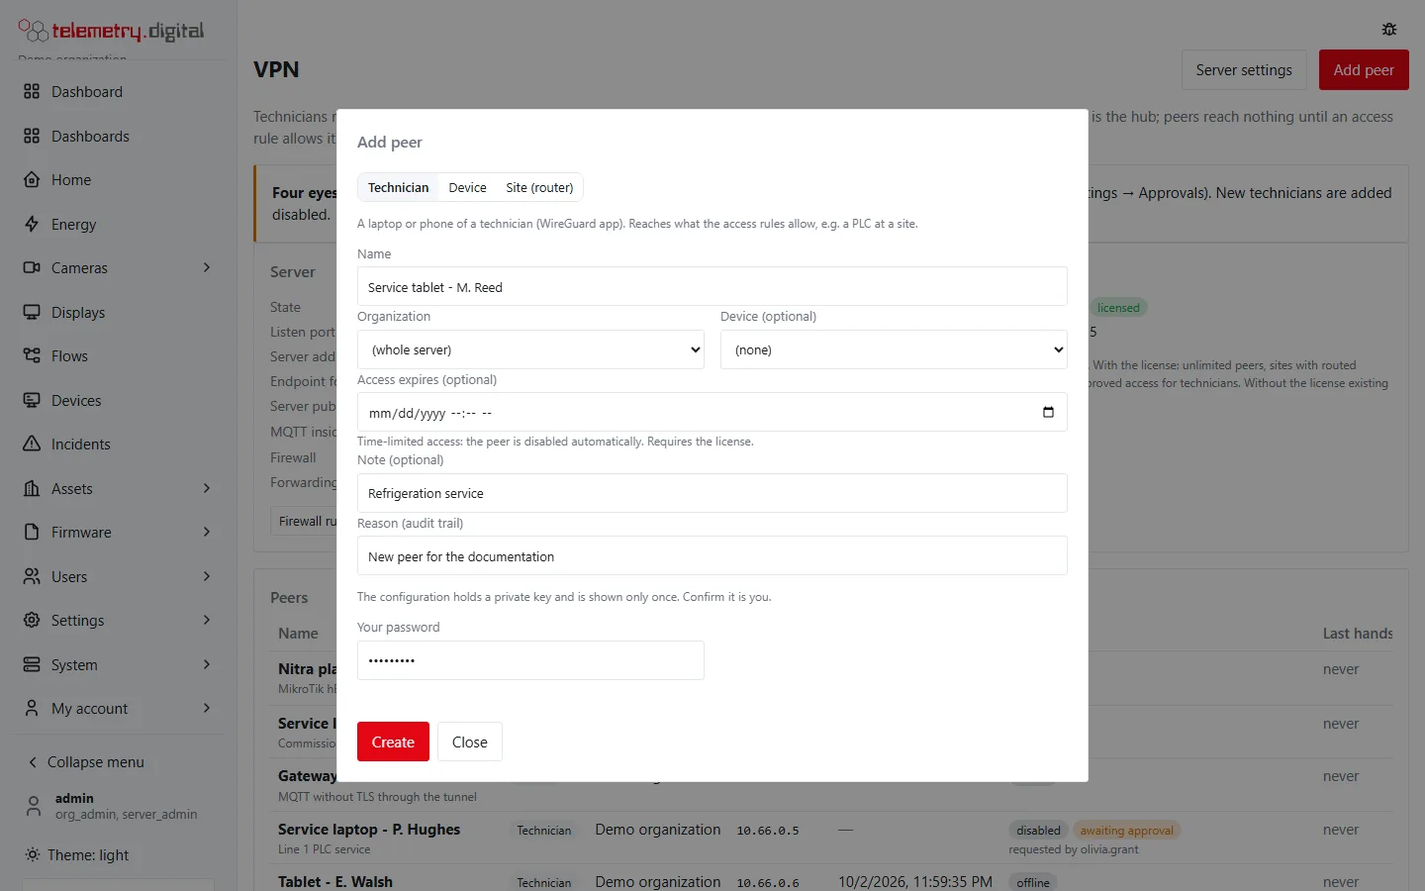
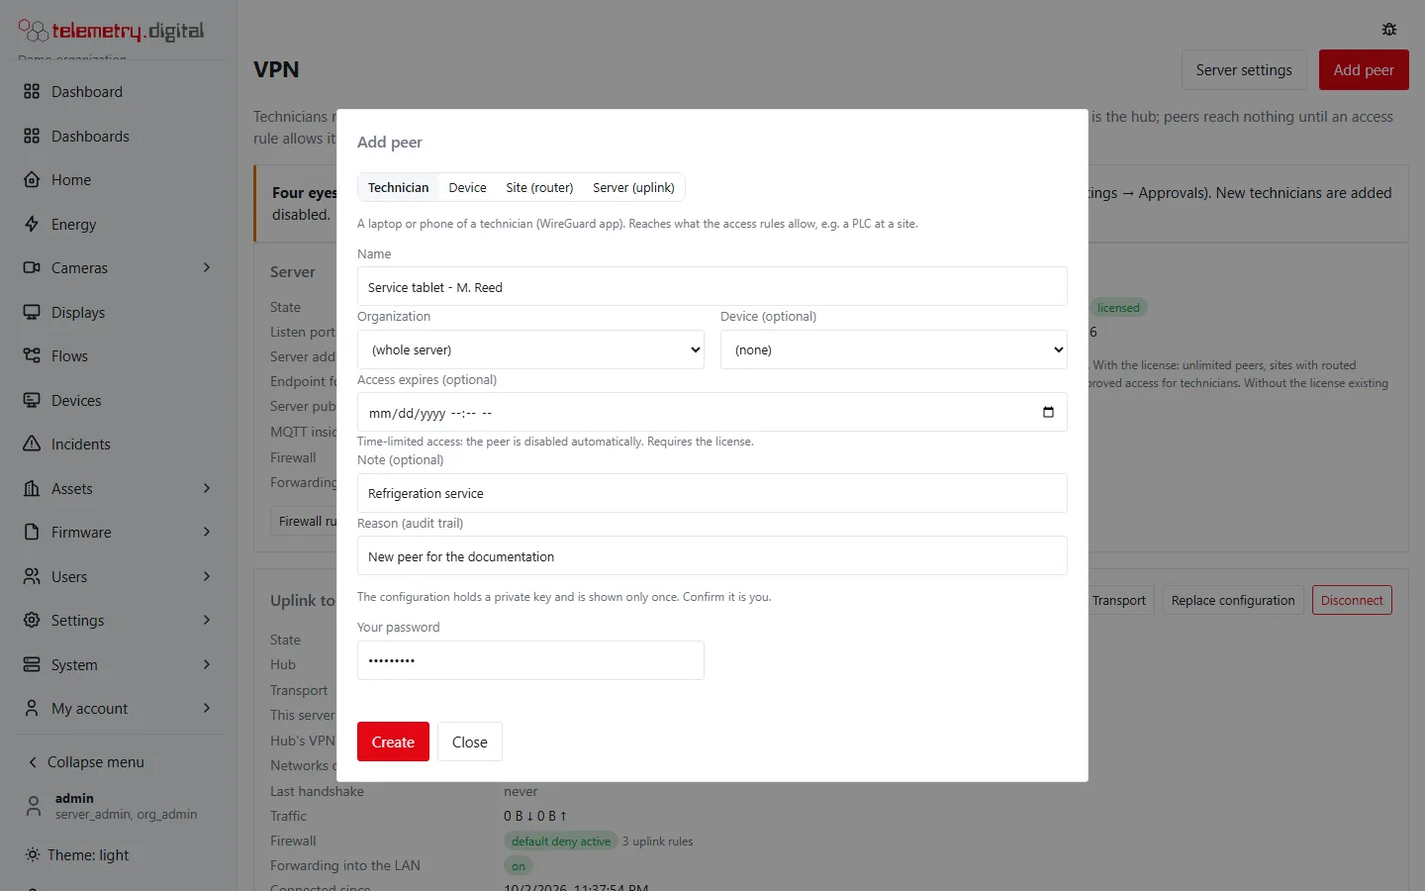
VPN: uplink of a server to a hub (0.69)

diff --git a/docs/telemetry/vpn/uplink-hub.md b/docs/telemetry/vpn/uplink-hub.md
@@ -1,0 +1,207 @@
+---
+title: Uplink to a hub
+slug: vpn-uplink-hub
+sidebar_position: 6
+tags: [vpn, wireguard, uplink, hub, cloud, remote-access, nat, security]
+---
+
+Most telemetry.digital servers at customers sit in a plant LAN **without a public address**: technicians cannot
+connect to them as to a hub. The **uplink** solves this: the customer's server connects **out** to a hub — another
+telemetry.digital server with a public address, for example your own server in the cloud — and technicians of that
+hub reach the customer's server and its LAN, **only as the rules on both sides allow**.
+
+## How it works
+
+| Where | What you set up | Who decides |
+|---|---|---|
+| Hub (public address, for example in the cloud) | a peer of the kind **Server (uplink)** for each customer server, and access rules *technicians → that server or a host in its LAN* | the hub's administrators |
+| Customer server (in the plant LAN) | **Connect to a hub** with the uplink configuration from the hub, and **uplink rules** *from the hub → this server or a host in the LAN* | the customer server's administrators |
+
+A technician's connection passes two firewalls. The hub lets the technician towards the customer server only when one
+of its access rules allows it; the customer server lets the hub's traffic in only when one of its uplink rules allows
+it. Everything else is dropped on both sides.
+
+Example: technician **10.99.0.21** of the hub programs PLC **192.168.50.20** at customer A.
+
+1. On the hub: rule *technician → Customer A, host 192.168.50.20 : tcp 502*.
+2. On customer A's server: uplink rule *from 10.99.0.21 → 192.168.50.20 : tcp 502*.
+3. The technician connects to the hub with the WireGuard app and opens `192.168.50.20:502` in the engineering tool.
+
+!!! info "Nothing is opened at the customer"
+    The customer server only connects out — to the hub's UDP port, or with the HTTPS transport only to the hub's web
+    address on port 443. No port forwarding, no public address and no change of the customer's router is needed.
+
+## Requirements
+
+- **The hub:** a telemetry.digital server with a public address, the VPN enabled (see [Set up the VPN](setup.md)) with
+  an **endpoint for peers**, and a **licence** — a customer server is a site of the hub.
+- **A VPN range of its own on the hub**, for example `10.99.0.1/16`. Customer servers usually use the default
+  `10.66.0.1/24` for their own VPN; a hub range that overlaps it, the customer server's own networks or its sites is
+  refused when connecting.
+- **The customer server:** the server agent (Linux or Windows) and a server administrator. The customer server does
+  not need a licence for the uplink, and its own VPN does not have to be enabled.
+- For the **HTTPS transport** (networks that block outgoing UDP): the hub has an HTTPS address (its own domain).
+
+## On the hub: add the customer server
+
+1. Open **System → VPN** and click **Add peer**.
+2. Choose **Server (uplink)**, enter a name (for example *Customer A - Brno server*), optionally the organization, and
+   under **Networks behind that server** the LAN subnets the hub may route to it — one per line, for example
+   `192.168.50.0/24`. Leave it empty when technicians need only the customer server itself.
+3. Enter a reason and your password, and click **Create**.
+
+![The Add peer dialog with the kind Server (uplink): name Customer B - Graz server, organization, the networks behind that server 192.168.60.0/24, a note, a reason and the password](img/vpn-add-uplink.webp)
+
+The dialog shows the **uplink configuration once**: one line of text that starts with `ctrl32-uplink-v1.`. It holds
+the private key of the customer server; the hub does not keep it. Copy it or download it and hand it over safely —
+for example in person or in a password manager, never by plain e-mail.
+
+![The uplink configuration shown once: the text to paste on the remote server, Download and Copy, its address in this VPN 10.66.0.8, the networks routed to it 192.168.60.0/24 and that the HTTPS transport is included](img/vpn-uplink-token.webp)
+
+| Shown | Meaning |
+|---|---|
+| Its address in this VPN | the customer server's address in the hub's VPN, for example `10.99.0.7`; technicians reach the customer server's own services there |
+| Networks routed to it | the LAN subnets the hub routes to the customer server |
+| HTTPS transport | *included* when the hub has an HTTPS address; otherwise only UDP is possible |
+
+In the peer list the customer server appears with the kind **Server (uplink)**; *via HTTPS* when it uses the HTTPS
+transport. **Rotate key** issues a new uplink configuration and stops the old one at once (including its HTTPS
+transport); **Disable** and **Remove** end the connection at once.
+
+### Access rules on the hub
+
+Use the customer server like a site in the [access rules](access-rules.md):
+
+| Goal | Destination | Example |
+|---|---|---|
+| The customer server's web interface | **Peer** — the uplink peer | *technicians → Customer A : tcp 443* |
+| A PLC or HMI in the customer's LAN | **Site network** — the uplink peer, host or subnet inside its networks | *technician → Customer A 192.168.50.20 : tcp 502* |
+
+Technicians' WireGuard configurations route the networks of every site, including those behind uplinks.
+
+## On the customer server: connect to the hub
+
+**System → VPN** shows the card **Uplink to a hub** to server administrators.
+
+1. Click **Connect to a hub**.
+2. Paste the uplink configuration from the hub.
+3. Choose the **transport**: **UDP** (recommended) or **HTTPS** when the plant network blocks outgoing UDP.
+4. Enter a reason and your password, and click **Connect**.
+
+![The Connect to a hub dialog: the uplink configuration from the hub pasted, Transport UDP, a reason and the password](img/vpn-uplink-connect.webp)
+
+The server checks the configuration, refuses a hub range that overlaps its own networks, its own VPN range or its
+sites, and brings the uplink up. **Nothing from the hub is accepted until an uplink rule allows it** — only ping of
+the customer server's uplink address answers.
+
+![The card Uplink to a hub on the customer server: state, hub, transport, the server's address in the hub's VPN, the hub's range, the networks offered to the hub, last handshake, traffic, firewall with three uplink rules, forwarding into the LAN, and the uplink rules table](img/vpn-uplink-card.webp)
+
+| Row | Meaning |
+|---|---|
+| State | **connected** — a handshake with the hub in the last 3 minutes; **waiting for the hub** — the uplink runs but the hub has not answered yet (wrong endpoint, the hub's UDP port closed, the uplink peer disabled on the hub, or UDP blocked: try HTTPS); **not running** — the interface is down |
+| Runs | Linux: WireGuard and nftables; Windows: inside the server agent |
+| Hub | the hub's endpoint |
+| Transport | UDP, or HTTPS with the hub's web address and the tunnel's state |
+| This server in the hub's VPN | the address technicians use for this server, and its name on the hub |
+| Hub's VPN range | the technicians' addresses; the only range routed into the uplink |
+| Networks offered to the hub | the LAN subnets the hub routes here |
+| Firewall | *default deny active* and the number of uplink rules |
+| Forwarding into the LAN | on while an uplink rule towards the LAN exists |
+
+## Uplink rules
+
+Uplink rules say what the hub may reach on the customer server. Click **Add uplink rule**.
+
+![The uplink rule dialog: name, from 10.99.0.21, to a host or network in the LAN 192.168.20.15, protocol TCP, ports 102, 502, enabled, reason](img/vpn-uplink-rule.webp)
+
+| Field | Default | Allowed | Meaning |
+|---|:---:|---|---|
+| Name | — | 1–80 characters | shown in the list |
+| From | the whole hub | an address or subnet inside the hub's VPN range, for example one technician `10.99.0.21` | who at the hub may connect |
+| To | This server | *This server* or *A host or network in the LAN* | the customer server's uplink address, or a host or subnet of the networks offered to the hub |
+| Host or subnet | all offered networks | inside the networks offered to the hub | LAN destinations only, for example one PLC |
+| Protocol | TCP | TCP, UDP, ICMP (ping), Any | what the rule allows |
+| Ports | all ports | `102, 502, 8000-8100` | TCP and UDP only |
+| Enabled | on | — | a disabled rule stays in the list but opens nothing |
+| Reason (audit trail) | — | up to 200 characters | required |
+
+**Services of this server** fill in the ports of the web interface, MQTT in the tunnel, MQTT with TLS and SSH (Linux).
+Rules can be prepared before the server is connected; they apply as soon as it is. Parts outside the connected hub's
+ranges are left out.
+
+!!! warning "Keep uplink rules narrow"
+    The hub may be shared by many customers and technicians. Prefer one technician's address and one PLC with the
+    ports it needs over *the whole hub → all offered networks*. Removing or disabling a rule ends the access at once.
+
+### What the LAN sees
+
+Connections into the LAN leave the customer server from **its own LAN address** (masquerade): PLCs and HMIs need no
+route back to the hub, and in their logs the customer server is the client. Who connected is in the audit trail and
+in the hub's logs. The customer server does not become a router for its LAN: devices in the LAN cannot open
+connections towards the hub, and nothing else is forwarded.
+
+### Generated rules
+
+**Firewall rules** on the card shows what the server agent loaded: on Linux the nftables table `ctrl32_uplink`
+(input to the uplink address, forwarding into the LAN, masquerade, default deny), on Windows the rules the agent
+checks for every packet.
+
+![The generated uplink firewall rules: the nftables table ctrl32_uplink with the input chain, the forward chain with the uplink rules and the default deny, and the masquerade for the LAN](img/vpn-uplink-firewall.webp)
+
+## HTTPS transport
+
+When the plant network blocks outgoing UDP, the uplink can carry its WireGuard packets inside a WebSocket over the
+hub's HTTPS address (TCP 443). Choose it when connecting or later with **Transport**.
+
+![The Uplink transport dialog with HTTPS (TCP 443, when UDP is blocked) selected and a reason](img/vpn-uplink-transport.webp)
+
+- WireGuard still encrypts and authenticates every packet; the hub's web server only passes them on.
+- The tunnel is opened only with the secret from the uplink configuration; *Rotate key* on the hub replaces it.
+- It is slower when packets are lost (TCP inside TCP): good for maintenance access, not for large transfers.
+- The hub needs an HTTPS address. Without it the uplink configuration offers UDP only.
+
+## Key rotation, replacement and disconnecting
+
+- **Rotate key** on the hub, then **Replace configuration** on the customer server with the new uplink configuration.
+  The uplink rules stay.
+- **Disconnect** on the customer server stops the uplink at once, removes its firewall table and deletes its keys.
+  The uplink rules stay for a later connection.
+- **Disable** or **Remove** on the hub ends the access from the hub's side at once.
+
+## Linux and Windows
+
+| Topic | Linux | Windows |
+|---|---|---|
+| Interface | `wg1` (WireGuard in the kernel) | inside the server agent |
+| Firewall | nftables table `ctrl32_uplink` | the agent checks every packet |
+| This server | its services on the uplink address; MQTT listens there too | its services through `127.0.0.1` |
+| LAN hosts | TCP, UDP and ping as the rules allow, with masquerade | TCP only; the server opens the connection itself |
+| Survives a restart | yes (the interface comes up with its table) | yes (the agent starts the uplink) |
+
+## Safety first
+
+- The uplink is **off** until a server administrator of the customer server connects it, with the password again and
+  a reason. Administrators of an organization (`vpn.manage`) neither see nor change it, and AI assistants cannot
+  connect it.
+- **Default deny on both sides**; every change of a rule, of the transport, every connect, replacement and disconnect
+  is written to the [audit trail](../administration/audit.md) (`vpn.uplink_*`).
+- The uplink configuration holds a private key: it is shown once on the hub and kept only by the server agent of the
+  customer server.
+
+!!! warning "A hub reaches many customers"
+    A hub with uplinks is a gateway into every connected customer network, within what the customers' uplink rules
+    allow. Protect its administrator accounts with two-factor sign-in, keep its rules narrow and give technicians
+    time-limited access (see [Organizations, access grants and approvals](organizations-and-approvals.md)).
+
+## Troubleshooting
+
+| Symptom | Check |
+|---|---|
+| *the hub's VPN range … overlaps this server's own VPN range* | the hub needs a range of its own (for example `10.99.0.1/16`); or change the customer server's own VPN range |
+| *the hub's VPN range … overlaps the host network* | the customer's LAN uses the hub's range: the hub needs another range |
+| State stays *waiting for the hub* | the hub's endpoint and UDP port, the uplink peer enabled on the hub, outgoing UDP allowed — otherwise switch to HTTPS |
+| HTTPS tunnel *down* with *401* | the uplink peer was disabled, removed or its key rotated on the hub: replace the configuration |
+| The technician reaches the customer server but not the PLC | a rule on **both** sides: the hub's rule towards the site network and the customer's uplink rule towards the LAN host |
+| The PLC does not answer although both rules exist | the PLC itself (its own firewall, the right port), and on Windows that the protocol is TCP |
+
+On a Linux customer server: `wg show wg1`, `nft list table inet ctrl32_uplink`, `ip route show dev wg1`.

diff --git a/docs/telemetry/vpn/peers.md b/docs/telemetry/vpn/peers.md
@@ -15,6 +15,7 @@ a router that connects a whole site. Each peer has its own key pair and one fixe
 | Technician | a laptop or phone with the WireGuard app; reaches what the access rules allow, for example a PLC at a site | the VPN range and the routed subnets of every site | free (up to 5 peers) |
 | Device | a gateway or device that sends data through the tunnel, for example MQTT to this server without TLS | the VPN range only | free (up to 5 peers) |
 | Site (router) | a router or Raspberry Pi at a site that connects its whole LAN (site-to-site) | the VPN range and the routed subnets of the other sites | requires a licence |
+| Server (uplink) | another telemetry.digital server without a public address that connects out to this server as its hub (see [Uplink to a hub](uplink-hub.md)) | the VPN range only | requires a licence |
 
 What a peer *routes* into the tunnel is only the way there: the server's [access rules](access-rules.md) decide
 what it actually reaches.
@@ -27,11 +28,11 @@ Click **Add peer**, choose the kind and fill in the form. The VPN server must be
 
 | Field | Default | Allowed | Meaning |
 |---|:---:|---|---|
-| Kind | Technician | Technician, Device, Site (router) | see *Peer kinds*; it cannot be changed later |
+| Kind | Technician | Technician, Device, Site (router), Server (uplink) | see *Peer kinds*; it cannot be changed later |
 | Name | — | 1–63 characters: letters, digits, space, dot, dash or underscore, starting with a letter or digit; unique | shown in the lists and in the configuration file name |
 | Organization | (whole server) | an organization of the server; for the administrator of an organization always the own organization | who manages the peer, and a rule source (*all peers of an organization*) |
 | Device (optional) | (none) | a device of the server | links a device peer to the device it carries data for |
-| Routed subnets | — | sites only: 1–16 IPv4 networks, one per line, from /8 to /32 | the LAN behind the router, for example `192.168.10.0/24` |
+| Routed subnets | — | sites only: 1–16 IPv4 networks, one per line, from /8 to /32; for a Server (uplink) 0–16 | the LAN behind the router, for example `192.168.10.0/24`; for a Server (uplink) the networks behind that server the hub may route to it |
 | Access expires (optional) | — | a date and time in the future | time-limited access: the peer is disabled automatically; requires a licence; not for technicians under four eyes (use an access grant) |
 | Note (optional) | — | up to 200 characters | for example the router model or the purpose |
 | Reason (audit trail) | — | up to 200 characters | required |
@@ -58,7 +59,8 @@ access through an approved [access grant](organizations-and-approvals.md#access-
 ## The configuration — shown once
 
 After **Create** the dialog shows the configuration **once**. The private key is not stored on the server: when the
-configuration is lost, issue a new one with **Rotate key**.
+configuration is lost, issue a new one with **Rotate key**. A **Server (uplink)** gets an uplink configuration to paste
+on that server instead (see [Uplink to a hub](uplink-hub.md)).
 
 ![The configuration of a new technician peer shown once: a QR code for the WireGuard app, the configuration text, the buttons Download .conf and Copy](img/vpn-peer-config.webp)
 

diff --git a/docs/telemetry/vpn/index.md b/docs/telemetry/vpn/index.md
@@ -9,7 +9,7 @@ tags: [vpn, wireguard, remote-access, site-to-site, security]
 PLCs and HMIs at your sites, routers connect whole site networks, and devices send data through the tunnel — and
 every one of them reaches only what a rule allows.
 
-![System → VPN with four eyes for VPN access on: the server card with state, port, address, endpoint and firewall, the licence card, the peers (a site router, technicians — one awaiting approval, one with an approved access until midnight — and a gateway) and three access rules](img/vpn-page.webp)
+![System → VPN with four eyes for VPN access on: the server card with state, port, address, endpoint and firewall, the licence card, the peers (a site router, technicians — one awaiting approval, one with an approved access until midnight — and a gateway) and access rules, with the card Uplink to a hub of this server and a customer server connected as a Server (uplink) peer](img/vpn-page.webp)
 
 ## What it is for
 
@@ -22,6 +22,7 @@ every one of them reaches only what a rule allows.
 | A contractor needs access for one night shift | an **access grant** of 8 hours, approved by a second person when four eyes is on |
 | Each customer manages its own sites | the administrator of an organization manages the organization's peers and rules under **Settings → VPN** |
 | The server reads a PLC at a site (OPC UA, Modbus connectors) | nothing to add on a Linux server: the server itself may always reach its peers and the site networks |
+| A telemetry.digital server in a customer's LAN without a public address is serviced remotely | an **uplink** to a hub with a public address, for example your server in the cloud — rules on the hub and on the customer server (see [Uplink to a hub](uplink-hub.md)) |
 
 ## How it works
 
@@ -44,6 +45,7 @@ every one of them reaches only what a rule allows.
 | VPN server, access rules, firewall rules view | yes | yes |
 | Technician and device peers | up to 5 | unlimited |
 | Site peers with routed subnets (site-to-site) | — | yes |
+| Customer servers connected by uplink (a Server (uplink) peer on the hub) | — | yes |
 | Time-limited access (an expiry date or an access grant) | — | yes |
 | Technician access approved by a second person (four eyes) | — | yes |
 
@@ -80,10 +82,13 @@ expiry is refused with a message that says why.
    time-limited access, four eyes for technicians.
 5. [Security, upgrade and troubleshooting](troubleshooting.md) — what is blocked, the audit trail, moving from the
    earlier WireGuard page, limits and checks on the server.
+6. [Uplink to a hub](uplink-hub.md) — a server without a public address connects out to a hub; technicians reach it
+   and its LAN as the rules on both sides allow; the HTTPS transport for networks that block UDP.
 
 ## Requirements
 
 - A server with the server agent, installed by the installer: **Linux** (Debian or Ubuntu) or **Windows**. On
   Windows a few things work differently — see [Windows servers](setup.md#windows-servers).
-- A UDP port the peers can reach — open it in your provider's or your router's firewall too.
+- A UDP port the peers can reach — open it in your provider's or your router's firewall too. A server without one
+  joins a hub through an [uplink](uplink-hub.md).
 - IPv4.

diff --git a/docs/telemetry/vpn/troubleshooting.md b/docs/telemetry/vpn/troubleshooting.md
@@ -16,8 +16,10 @@ tags: [vpn, security, audit, upgrade, troubleshooting]
 | Edit, disable, enable and remove peers, access rules, access grants of the own organization | `vpn.manage` and a reason |
 | Add a peer, rotate a key (a configuration with a private key is shown) | `system.admin` or `vpn.manage`, a reason, your password and — with two-factor sign-in — the authenticator code |
 | Approve a technician's access under four eyes | a different user with `vpn.manage` or `system.admin`, and a reason |
+| Connect this server to a hub (uplink), replace its configuration | `system.admin`, a reason, your password and — with two-factor sign-in — the authenticator code |
+| Uplink rules, the uplink's transport, disconnecting | `system.admin` and a reason |
 
-AI assistants are never offered adding a peer, rotating a key or granting access.
+AI assistants are never offered adding a peer, rotating a key, granting access or connecting an uplink.
 
 ### What a peer cannot reach
 
@@ -36,6 +38,8 @@ AI assistants are never offered adding a peer, rotating a key or granting access
 - Peer private keys are created on the server, shown once and **never stored**.
 - Preshared keys are kept only by the server agent (readable by root); the database holds public keys only.
 - The server's private key never leaves the agent.
+- An uplink configuration holds the private key of the customer server: shown once on the hub, kept only by the
+  server agent of the customer server, deleted when it disconnects.
 
 ### Audit trail
 
@@ -51,6 +55,8 @@ Every change is written to the [audit trail](../administration/audit.md) with it
 | `vpn.rule_add`, `vpn.rule_update`, `vpn.rule_remove` | an access rule was added, changed or removed |
 | `vpn.apply` | *Apply again* |
 | `vpn.import` | peers of an earlier version were imported (see below) |
+| `vpn.uplink_connect`, `vpn.uplink_replace`, `vpn.uplink_transport`, `vpn.uplink_disconnect` | this server was connected to a hub, got a new uplink configuration, changed the transport or was disconnected (see [Uplink to a hub](uplink-hub.md)) |
+| `vpn.uplink_rule_add`, `vpn.uplink_rule_update`, `vpn.uplink_rule_remove` | an uplink rule was added, changed or removed |
 
 ## Upgrade from the earlier WireGuard page
 
@@ -74,7 +80,8 @@ the other new fields can be set afterwards with **Edit**.
 | Operating system | Linux with nftables (Debian, Ubuntu), or Windows with the VPN inside the server agent (see [Windows servers](setup.md#windows-servers)) |
 | Access grants | 15 minutes to 30 days |
 | Addresses | IPv4 only |
-| Topology | hub and spoke; the server needs a reachable UDP port (no NAT traversal, no mesh) |
+| Topology | hub and spoke; a hub needs a reachable UDP port (no mesh); a server without a public address joins a hub through an [uplink](uplink-hub.md) |
+| Uplinks | one per server; technicians always go through the hub; the hub's other sites are not routed to a customer server |
 | Peers | up to 5 free; with a licence up to 1 000 |
 | Routed subnets | up to 16 per site, from /8 to /32 |
 | Access rules | up to 500; up to 20 sources and 20 port entries per rule |

diff --git a/docs/telemetry/vpn/setup.md b/docs/telemetry/vpn/setup.md
@@ -17,7 +17,8 @@ rules — see [Organizations, access grants and approvals](organizations-and-app
 - Choose a **UDP port** (51820 by default) and make sure it reaches the server: open it in the cloud provider's
   firewall or forward it on your router. The server opens it in `ufw` (Linux) or in Windows Firewall itself.
 - Choose a **VPN range** that is not used anywhere else — not on the server's own networks and not in any site's LAN.
-  The default `10.66.0.1/24` leaves room for 253 peers.
+  The default `10.66.0.1/24` leaves room for 253 peers. A hub for customer servers that connect by
+  [uplink](uplink-hub.md) should use a range of its own, for example `10.99.0.1/16`.
 - Decide the **endpoint**: the public name or address and port under which peers find the server, for example
   `vpn.example.com:51820`. When you leave it empty and the server has a domain, the domain is used.
 
@@ -113,7 +114,8 @@ nothing is reachable from the VPN*.
 
 ## First steps after enabling
 
-1. Add the peers — a site router first if technicians are to reach a site ([Peers](peers.md)).
+1. Add the peers — a site router first if technicians are to reach a site ([Peers](peers.md)), or a **Server
+   (uplink)** for a telemetry.digital server without a public address ([Uplink to a hub](uplink-hub.md)).
 2. Configure the router or the WireGuard app with the configuration shown once.
 3. Add the access rules for exactly what each peer needs ([Access rules](access-rules.md)).
 4. Check that the peer shows *online* and a recent *Last handshake*.

diff --git a/docs/telemetry/vpn/access-rules.md b/docs/telemetry/vpn/access-rules.md
@@ -54,7 +54,7 @@ Only active peers count: a disabled or expired peer drops out of every rule at o
 | Destination | Reaches |
 |---|---|
 | This server | the server's own VPN address — its services (MQTT, the web interface, SSH) |
-| Site network | the routed subnets of a site, or one host or subnet inside them, through the site's router |
+| Site network | the routed subnets of a site, or one host or subnet inside them, through the site's router — or through a customer server connected by an [uplink](uplink-hub.md), whose own uplink rules must allow it too |
 | Peer | one peer's VPN address, for example a technician's laptop that a site must reach |
 
 ### Services of this server
